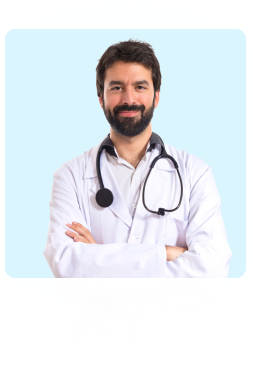
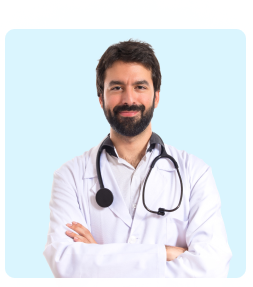
two section (cleanly)+adaptive

diff --git a/src/assets/scss/components/doctors-section.scss b/src/assets/scss/components/doctors-section.scss
@@ -1,7 +1,145 @@
 @import "../utils/parameters";
 
-.doctors-section__row{
+.doctor-section__main {
+    font-family: Roboto;
+    font-style: normal;
+    font-weight: 500;
+    font-size: 4.2rem;
+    line-height: 49px;
+    letter-spacing: 0.02em;
+    color: #3D3D3F;
+    text-align: center;
+    margin-bottom: 1rem;
+}
+.doctor-img {
+    display: block;
+    margin: 0 auto;
+    max-width: 100%;
+    margin-bottom: 1rem;
+}
+
+.doctor-text {
+    font-family: Roboto;
+    font-style: normal;
+    font-weight: normal;
+    font-size: 1.8rem;
+    line-height: 167%;
+    text-align: center;
+    letter-spacing: 0.02em;
+    color: rgba(61, 61, 63, 0.7);
+    margin-bottom: 2rem;
+}
+
+.doctor-section__mixit {
+    background: linear-gradient(138.88deg, rgba(254, 254, 254, 0) -2.44%, #F9F9F9 -2.43%, rgba(254, 254, 254, 0.51) 98.26%);
+    border: 1px solid #EEEFF1;
+    box-sizing: border-box;
+    filter: drop-shadow(0px 4px 120px rgba(0, 0, 0, 0.05));
+    border-radius: 10px;
+    padding: 2rem;
+    flex: 1 0 25%;
+    max-width: 25%;
+}
+
+.doctor-section__row {
     display: flex;
     align-items: center;
     justify-content: space-between;
+}
+
+.doctor-section__img {
+    max-width: 100%;
+    margin-bottom: 2rem;
+    display: block;
+    margin: 0 auto;
+}
+
+.doctor-section__head {
+    font-family: Roboto;
+    font-style: normal;
+    font-weight: 500;
+    font-size: 1.8rem;
+    line-height: 167%;
+    text-align: center;
+    color: #3D3D3F;
+}
+
+.doctor-section__description {
+    font-family: Roboto;
+    font-style: normal;
+    font-weight: normal;
+    font-size: 1.4rem;
+    line-height: 157%;
+    text-align: center;
+    color: #999999;
+    margin-bottom: 2rem;
+}
+
+.messagebox {
+    text-align: center;
+}
+
+.facebook-link {
+    list-style-type: none;
+}
+
+.facebook {
+    max-width: 100%;
+}
+
+.rw-link {
+    list-style-type: none;
+}
+
+.rw {
+    max-width: 100%;
+}
+
+.ld-link {
+    list-style-type: none;
+}
+
+.ld {
+    max-width: 100%;
+}
+
+.doctor-explore {
+    font-family: Roboto;
+    font-style: normal;
+    font-weight: normal;
+    font-size: 1.8rem;
+    line-height: 167%;
+    text-align: center;
+    color: #FFFFFF;
+    text-shadow: 0px 4px 22px rgba(0, 0, 0, 0.05);
+}
+
+@media (max-width: $md) {
+    .doctor-section__row {
+        display: block;
+        
+ }
+
+    .doctor-section__mixit {
+        flex: 1 0 100%;
+        max-width: 100%;
+    }
+
+    .doctor-section__main {
+        font-size: 3.8rem
+    }
+
+}
+
+@media (max-width: $sm) {
+    .doctor-section__main {
+        font-size: 3.3rem
+    }
+}
+
+
+@media (max-width: $xs) {
+    .doctor-section__main {
+        font-size: 2.9rem
+    }
 }

diff --git a/src/assets/scss/components/service-section.scss b/src/assets/scss/components/service-section.scss
@@ -1,5 +1,8 @@
 @import "../utils/parameters";
 
+.service-section {
+    margin-bottom: 10rem;
+}
 .service-section__container{
     margin-bottom: 5rem;
 }
@@ -7,7 +10,7 @@
     display: flex;
     align-items: center;
     justify-content: space-between;
-    
+        
 }
 
 .service-section__main {
@@ -29,6 +32,7 @@
     line-height: 167%;
     text-align: center;
     color: #3D3D3F;
+    padding-bottom: 2rem;
 
 }
 .section-text {
@@ -57,6 +61,7 @@
     max-width: 100%;
     display: block;
     margin: 0 auto;
+    padding-bottom: 2rem;
 }
 
 
@@ -65,4 +70,29 @@
     border-radius: 10px;
     flex: 33%;
     margin: 5rem;
+    padding: 2rem;
+}
+
+@media (max-width: $md) {
+    .service-section__row {
+        flex-wrap: wrap;
+ }
+
+}
+
+@media (max-width: $sm) {
+    .service-section__row {
+        display: block;
+    }
+
+    .service-section__main {
+        font-size: 3.5rem;
+    }
+}
+
+@media (max-width: $xs) {
+    
+    .service-section__main {
+        font-size: 2.9rem;
+    }
 }

diff --git a/src/assets/scss/components/quality-section.scss b/src/assets/scss/components/quality-section.scss
@@ -3,8 +3,7 @@
 .quality-section {
     overflow: hidden;
     padding-top: 10rem;
-    
-
+    margin-bottom: 10rem;
 }
 
 .quality-section__container {
@@ -75,6 +74,10 @@
 }
 
 @media (max-width: $md) {
+
+    .quality-section {
+        margin-bottom: 1rem;
+    }
     
     .best-quality{
         font-size: 3.5rem;
@@ -89,7 +92,8 @@
     }
 
         .guality-section__descriotion {
-            flex: 100%;
+            flex: 1 0 100%;
+            max-width: 100%;
     }
 
     .quality-section__img {
@@ -108,7 +112,8 @@
     }
 
         .guality-section__descriotion {
-            flex: 100%;
+            flex: 1 0 100%;
+            max-width: 100%;
     }
         
    

diff --git a/README.md b/README.md
@@ -2,4 +2,5 @@
 
 12/08 4section+adaptiv
 13/08 correction
-14/08 correction+another two section(not clean) witout adaptive this two section
+14/08 correction+another two section(not cleanly) witout adaptive this two section
+15/08 two section (cleanly)+adaptive
